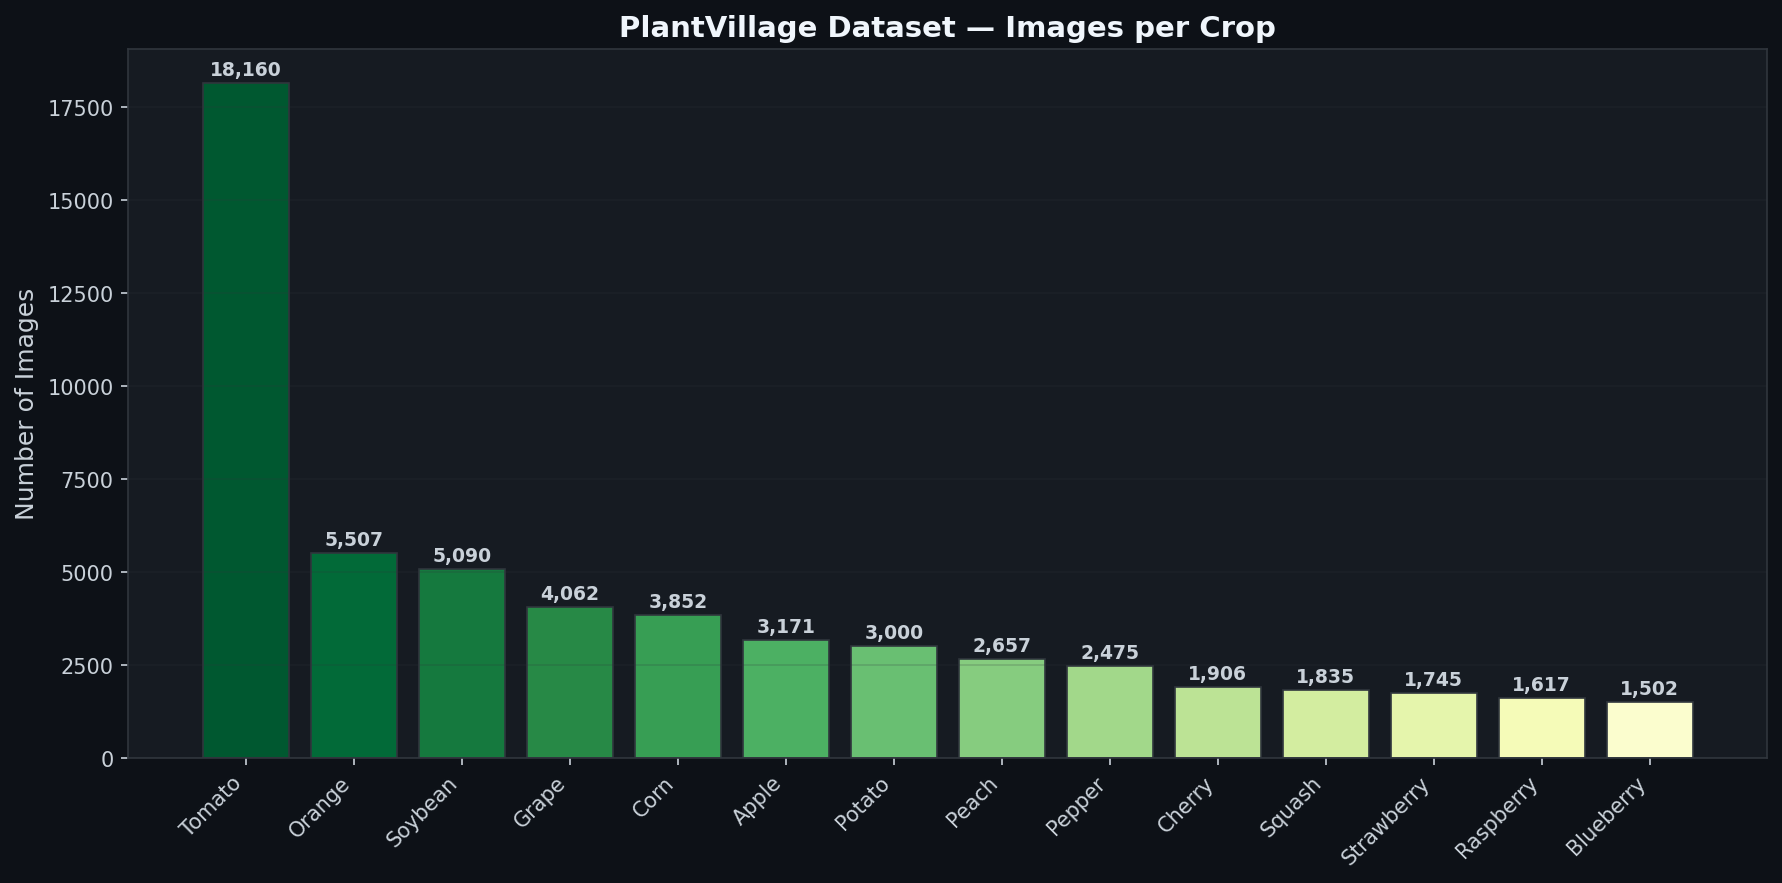
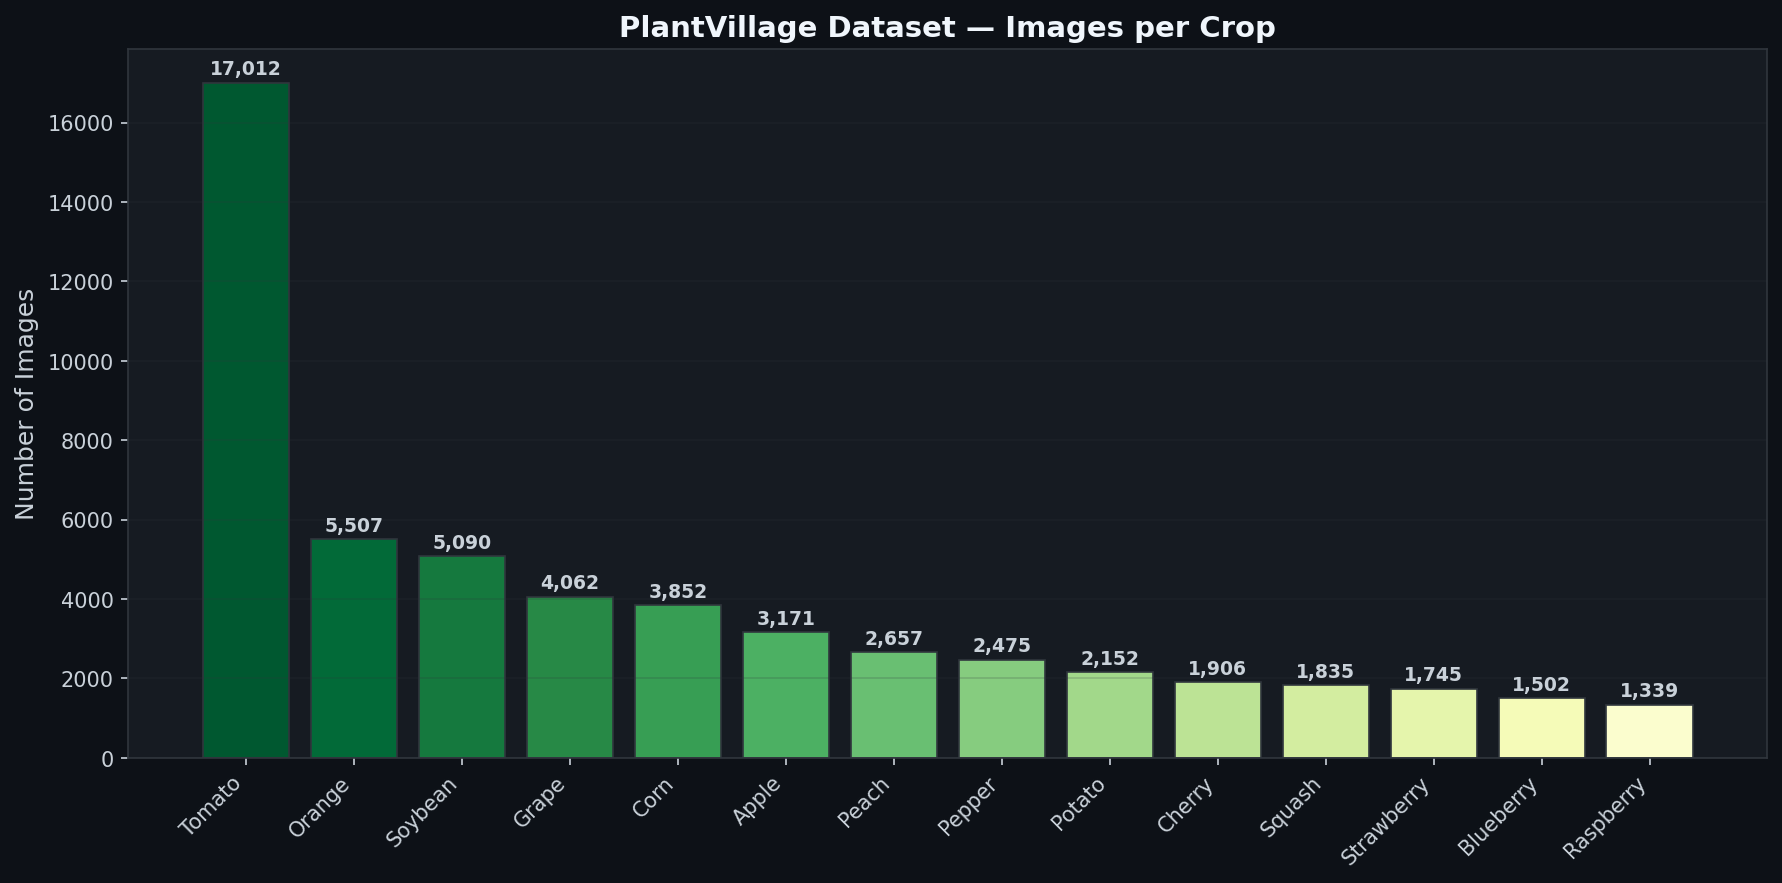
Fix Telegram link and update crop distribution data

diff --git a/generate_visuals.py b/generate_visuals.py
@@ -114,10 +114,10 @@ print("✓ top_bottom_classes.png")
 
 # ── 3. Crop Distribution ────────────────────────────────────────────
 crop_counts = {
-    "Tomato": 18160, "Potato": 3000, "Corn": 3852, "Grape": 4062,
+    "Tomato": 17012, "Potato": 2152, "Corn": 3852, "Grape": 4062,
     "Apple": 3171, "Pepper": 2475, "Cherry": 1906, "Peach": 2657,
     "Strawberry": 1745, "Orange": 5507, "Soybean": 5090, "Squash": 1835,
-    "Blueberry": 1502, "Raspberry": 1617
+    "Blueberry": 1502, "Raspberry": 1339
 }
 crops_sorted = dict(sorted(crop_counts.items(), key=lambda x: x[1], reverse=True))
 

diff --git a/README.md b/README.md
@@ -1,4 +1,4 @@
-# Crop Disease Detection
+# Crop Disease Detection — AgroAI
 
 Deep learning system for identifying plant diseases from leaf photographs. Trained on 54,000+ images across 38 disease categories using ResNet18 with transfer learning, achieving 98.8% validation accuracy.
 
@@ -149,4 +149,4 @@ python inference.py --image leaf_photo.jpg --checkpoint outputs/checkpoints/best
 
 Built by **Nikolai Shatikhin** — ML Engineer specializing in Computer Vision and image classification.
 
-Open to freelance projects. Reach out via [GitHub](https://github.com/shatini) or [Telegram](https://t.me/niko_shat).
+Open to freelance projects. Reach out via [GitHub](https://github.com/shatini) or [Telegram](https://t.me/That_Special_Someone).
